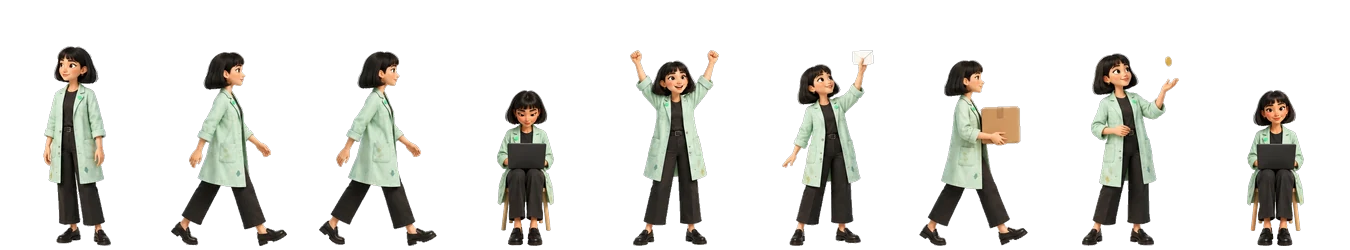
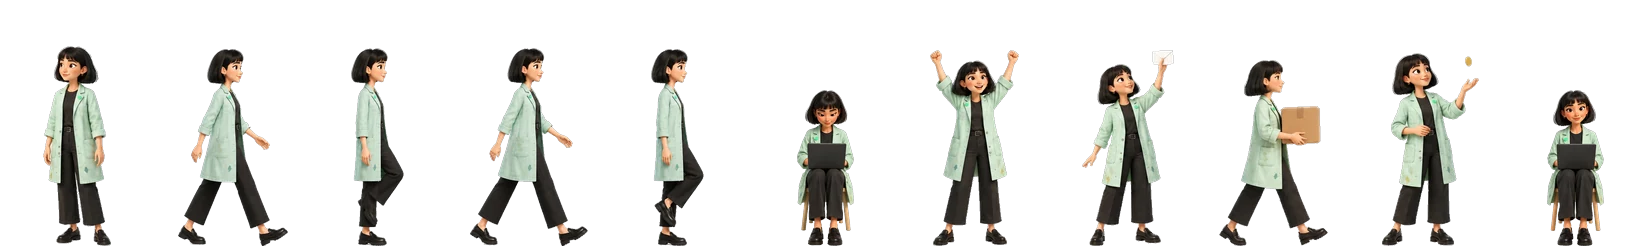
Workroom: a real four-frame walk cycle
Each agent gets a side-on walk sheet (contact, passing, other contact,
passing) in place of the two near-identical stride poses, so the legs pass
each other instead of sliding apart. Frames advance every half step of
distance walked, and the walking speed drops to a natural pace.

diff --git a/web/src/Workroom.tsx b/web/src/Workroom.tsx
@@ -27,8 +27,11 @@ const name = (id?: string) => (id ? NAMES[id] ?? id.replace(/^outside:/, '') : '
 const W = 1115, H = 1102;
 const FLOOR = [430, 740, 1040]; // the line the feet walk on: hall, desks, street
 const STAIR = 992;              // the stairwell on the right joins all three floors
-const SPEED = 250;              // walking speed, px per second, the same for every walk
-const STRIDE = 44;              // px walked per step
+const SPEED = 150;              // walking speed, px per second, the same for every walk
+// One step (heel to heel) in the walk sheets is about 65 px of a 200 px figure, 40 px here; the cycle is four
+// frames over two steps, so each frame is held for half a step and the planted foot keeps still on the floor.
+const STEP = 40;
+const WALK = ['walk1', 'walk2', 'walk3', 'walk4'] as const;
 const BOARD = 557;              // the middle of the auction board; people in the hall turn to it
 const COUNTER = { x: 440, y: 996, past: 652 }; // behind the counter, and the gap at its right end
 const HALL = [470, 640, 390, 720, 310, 800, 230, 880];
@@ -50,7 +53,7 @@ const SEATS: Record<string, { row: Row; x: number }> = {
 };
 // Frames in each strip (web/public/agents/poses/<name>.webp, made by design/scripts/poses.py), all facing right;
 // 'type' and 'look' are seated, facing out.
-const FRAMES = ['idle', 'walkA', 'walkB', 'type', 'cheer', 'bid', 'box', 'coin', 'look'] as const;
+const FRAMES = ['idle', ...WALK, 'type', 'cheer', 'bid', 'box', 'coin', 'look'] as const;
 type Pose = 'idle' | 'bid' | 'cheer' | 'box' | 'coin';
 const cq = (px: number) => `${(px / W) * 100}cqw`;
 
@@ -301,9 +304,11 @@ class Crowd {
     const moving = b.path.length > 0;
     let frame: (typeof FRAMES)[number] = 'idle', lift = 0;
     if (moving) {
-      const phase = b.walked / STRIDE;
-      frame = b.pose === 'box' ? 'box' : Math.floor(phase) % 2 ? 'walkB' : 'walkA';
-      lift = Math.abs(Math.sin(phase * Math.PI)) * 3.2;
+      // The passing frames stand taller than the contact ones, so the head already rises and falls with each step;
+      // the box has a single carrying pose and gets a small bob instead.
+      const phase = b.walked / STEP;
+      if (b.pose === 'box') { frame = 'box'; lift = Math.abs(Math.sin(phase * Math.PI)) * 2.4; }
+      else frame = WALK[Math.floor(phase * 2 + 0.5) % 4];
     } else if (b.seated) {
       // At work: head down typing, looking up now and then; while talking, mostly looking out.
       // Someone being paid looks up at the coin.

diff --git a/web/src/styles.css b/web/src/styles.css
@@ -167,7 +167,7 @@ table.leads td b{font-size:15px}
 .wr-desk.back{left:18.117%;top:57.078%;width:63.318%;height:6.443%;z-index:2}
 .wr-desk.front{left:13.453%;top:59.619%;width:61.614%;height:7.804%;z-index:4}
 .wr-fig{position:absolute;width:0;height:0;display:flex;flex-direction:column;align-items:center;z-index:5}
-.wr-spr{position:absolute;bottom:0;width:8.4cqw;height:14cqw;background:no-repeat 0 0/900% 100%;transform-origin:50% 100%;filter:drop-shadow(0 .35cqw .35cqw rgba(0,0,0,.3));will-change:transform}
+.wr-spr{position:absolute;bottom:0;width:8.4cqw;height:14cqw;background:no-repeat 0 0/1100% 100%;transform-origin:50% 100%;filter:drop-shadow(0 .35cqw .35cqw rgba(0,0,0,.3));will-change:transform}
 .wr-fig.sit .wr-spr{filter:none}
 .wr-fig.glow .wr-spr{filter:drop-shadow(0 0 .8cqw rgba(0,236,151,.85)) drop-shadow(0 .35cqw .35cqw rgba(0,0,0,.3))}
 .wr-name{position:absolute;z-index:5;transform:translateX(-50%);pointer-events:none;font:600 max(8px,1.05cqw)/1 'Inter Tight',sans-serif;color:#fff;background:rgba(0,0,0,.55);padding:.2cqw .6cqw;border-radius:99px;white-space:nowrap;opacity:.85}

diff --git a/design/scripts/poses.py b/design/scripts/poses.py
@@ -1,28 +1,26 @@
 # Cut each agent's pose sheets into one sprite strip for the workroom: the background keyed out, every pose turned
 # to face right, scaled alike, feet on the bottom edge. design/sheets/<name>.webp is a 4x2 grid of standing poses
-# (its fourth pose, typing seen from behind, is no longer used); <name>-seat.webp has two poses seated facing out,
-# laptop on the knees: typing, and looking up.
+# (its walks and its fourth pose, typing seen from behind, are no longer used); <name>-walk.webp is a 1x4 walk cycle
+# seen side on (contact, passing, other contact, passing); <name>-seat.webp has two poses seated facing out, laptop
+# on the knees: typing, and looking up.
 #   <python with numpy, scipy, pillow> design/scripts/poses.py [name ...]
-# Frame order in the strip: idle, walkA, walkB, type, cheer, bid, box, coin, look.
+# Frame order in the strip: idle, walk1-4, type, cheer, bid, box, coin, look.
 import glob, os, sys
 import numpy as np
 from PIL import Image
 from scipy import ndimage
 
 SRC, OUT = 'design/sheets', 'web/public/agents/poses'
-FRAMES = ['idle', 'walkA', 'walkB', 'type', 'cheer', 'bid', 'box', 'coin', 'look']
+FRAMES = ['idle', 'walk1', 'walk2', 'walk3', 'walk4', 'type', 'cheer', 'bid', 'box', 'coin', 'look']
 STAND = 200            # standing height in the strip, px
+WALK = 198             # height of the tallest walk pose (passing, one leg straight)
 SEATED = 156           # seated height (stool to hair), px
 CELL = (150, 250)      # one frame, px; feet sit 4 px above the bottom
 # Which way each pose faces on the sheet. The prompt asked for walks and the box facing right and the rest in a
 # three-quarter turn to the left, but a few sheets came out otherwise.
-FACE = {f: 'L' for f in ('idle', 'bid', 'coin')} | {f: 'R' for f in ('walkA', 'walkB', 'box')} | {'type': '-', 'cheer': '-', 'look': '-'}
+FACE = {f: 'L' for f in ('idle', 'bid', 'coin')} | {f: 'R' for f in ('walk1', 'walk2', 'walk3', 'walk4', 'box')} | {'type': '-', 'cheer': '-', 'look': '-'}
 ODD = {
-    'pip': {'walkA': 'L'},
-    'bram': {'walkB': 'L'},
-    'sol': {'walkB': 'L', 'coin': 'R'},
-    'hedda': {'walkB': 'L'},
-    'ansel': {'walkB': 'L'},
+    'sol': {'coin': 'R'},
     'kit': {'coin': 'R'},
 }
 # Lux's white coat is shaded in nearly the sheet's grey, so only the edge-connected background is keyed there.
@@ -94,12 +92,14 @@ def anchor_x(alpha):
 
 def build(name):
     stand = frames_of(f'{SRC}/{name}.webp', name, 2, 4)
+    walk = frames_of(f'{SRC}/{name}-walk.webp', name, 1, 4)
     seat = frames_of(f'{SRC}/{name}-seat.webp', name, 1, 2)
-    fr = stand[:3] + [seat[0]] + stand[4:] + [seat[1]]
+    fr = stand[:1] + walk + [seat[0]] + stand[4:] + [seat[1]]
+    tall = max(w.shape[0] for w in walk)
     face = FACE | ODD.get(name, {})
     strip = Image.new('RGBA', (CELL[0] * len(FRAMES), CELL[1]), (0, 0, 0, 0))
     for i, (f, px) in enumerate(zip(FRAMES, fr)):
-        scale = (SEATED / seat[0].shape[0]) if f in ('type', 'look') else (STAND / stand[0].shape[0])
+        scale = (SEATED / seat[0].shape[0]) if f in ('type', 'look') else (WALK / tall) if f.startswith('walk') else (STAND / stand[0].shape[0])
         im = Image.fromarray(px)
         if face[f] == 'L':
             im = im.transpose(Image.FLIP_LEFT_RIGHT)
@@ -114,9 +114,10 @@ def build(name):
         strip.alpha_composite(cell, (i * CELL[0], 0))
     strip.save(f'{OUT}/{name}.webp', quality=88, method=6)
     strip.save(f'/private/tmp/claude-501/-Users-mac-Documents-Hacks/6cdfbe4f-1f4d-4f3a-b078-f15dbb904db3/scratchpad/strip-{name}.png')
-    print(name, os.path.getsize(f'{OUT}/{name}.webp') // 1024, 'KB', [p.shape[:2] for p in fr])
+    feet = [int(np.ptp(np.nonzero(w[-max(4, w.shape[0] // 25):, :, 3].any(axis=0))[0]) * WALK / tall) for w in walk[::2]]
+    print(name, os.path.getsize(f'{OUT}/{name}.webp') // 1024, 'KB', 'contact feet span', feet)
 
 
-names = sys.argv[1:] or sorted(os.path.basename(f)[:-5] for f in glob.glob(f'{SRC}/*.webp') if not f.endswith('-seat.webp'))
+names = sys.argv[1:] or sorted(os.path.basename(f)[:-5] for f in glob.glob(f'{SRC}/*.webp') if '-' not in os.path.basename(f))
 for n in names:
     build(n)
